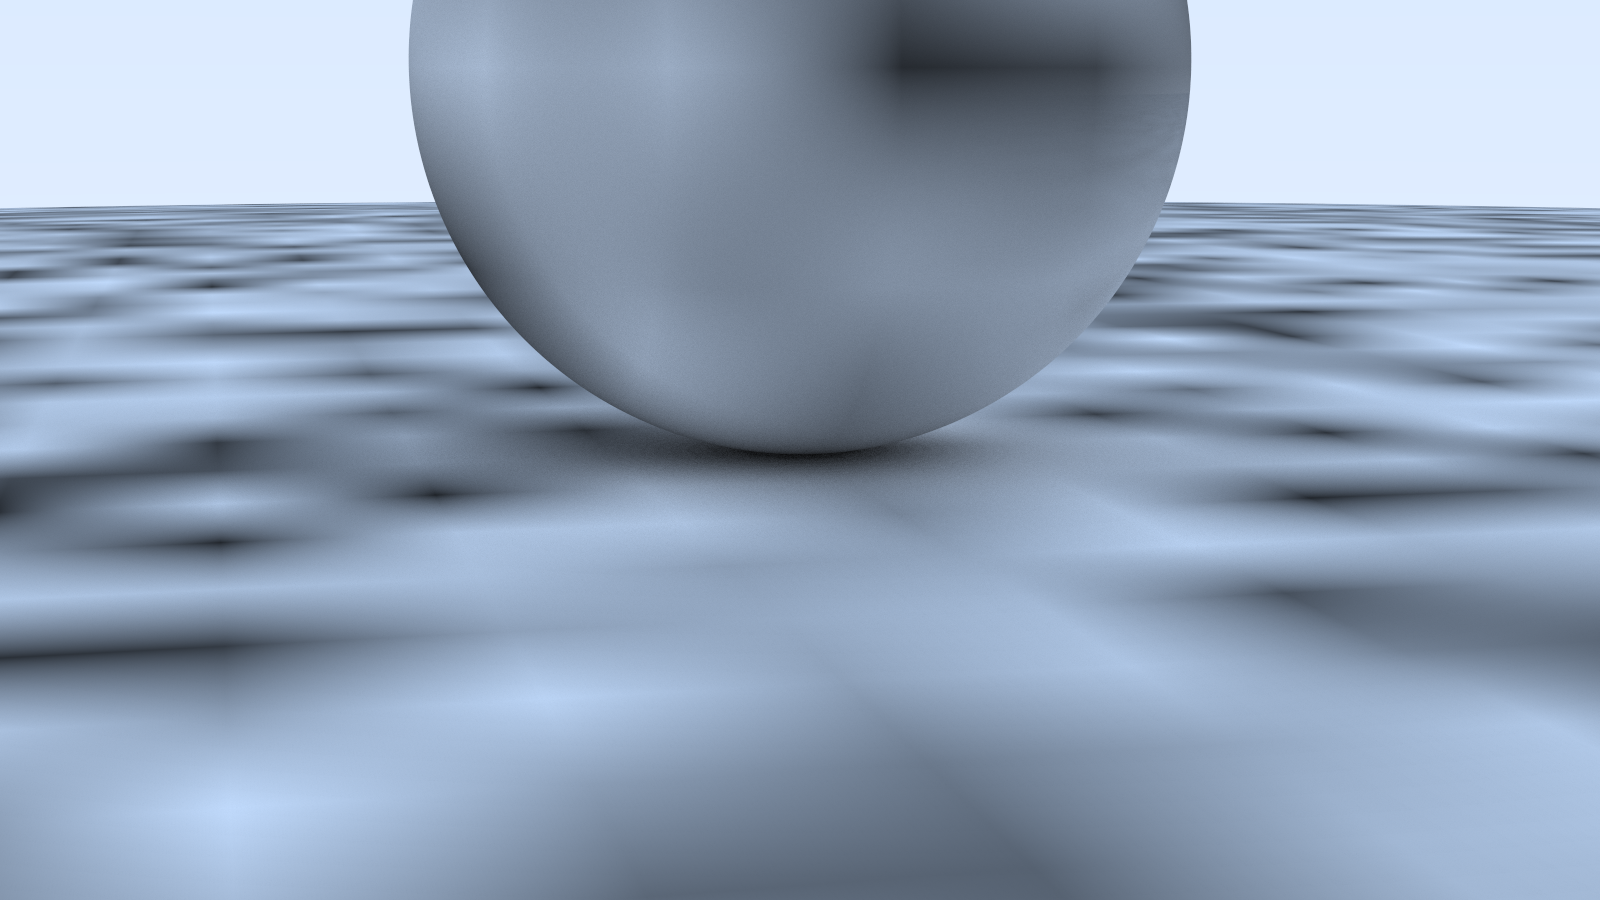
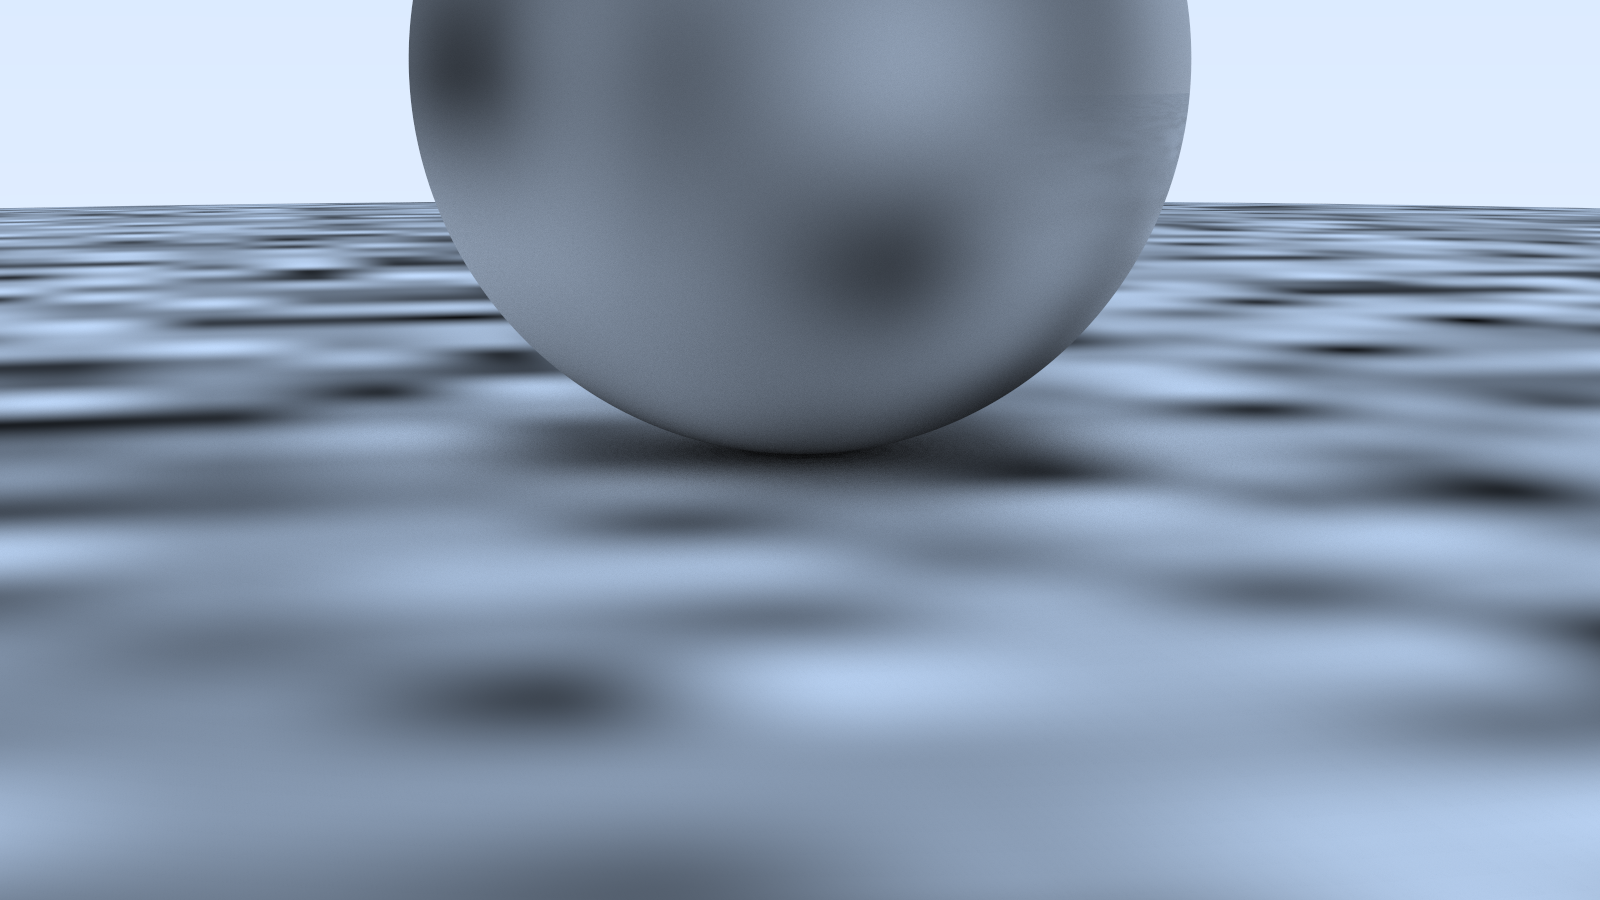
hermitian smoothing

diff --git a/src/perlin.rs b/src/perlin.rs
@@ -25,9 +25,18 @@ impl Perlin {
     }
 
     pub fn noise(&self, point: &Vec3) -> f32 {
-        let u = point.x - f32::floor(point.x);
-        let v = point.y - f32::floor(point.y);
-        let w = point.z - f32::floor(point.z);
+        let u = {
+            let u = point.x - f32::floor(point.x);
+            u * u * (3.0 - 2.0 * u)
+        };
+        let v = {
+            let v = point.y - f32::floor(point.y);
+            v * v * (3.0 - 2.0 * v)
+        };
+        let w = {
+            let w = point.z - f32::floor(point.z);
+            w * w * (3.0 - 2.0 * w)
+        };
 
         let i = f32::floor(point.x) as i32;
         let j = f32::floor(point.y) as i32;

diff --git a/src/main.rs b/src/main.rs
@@ -10,12 +10,12 @@ mod render;
 mod scenes;
 mod texture;
 
-const IMAGE_WIDTH: u32 = 400;
+const IMAGE_WIDTH: u32 = 400 * 4;
 const ASPECT_RATIO: f32 = 16.0 / 9.0;
 const IMAGE_HEIGHT: u32 = (IMAGE_WIDTH as f32 / ASPECT_RATIO) as u32;
 
-const SAMPLES_PER_PIXEL: u32 = 100;
-const MAX_DEPTH: u32 = 50;
+const SAMPLES_PER_PIXEL: u32 = 100 * 4;
+const MAX_DEPTH: u32 = 50 * 4;
 
 fn main() {
     let (world, camera) = scenes::perlin_spheres(IMAGE_WIDTH, IMAGE_HEIGHT);
